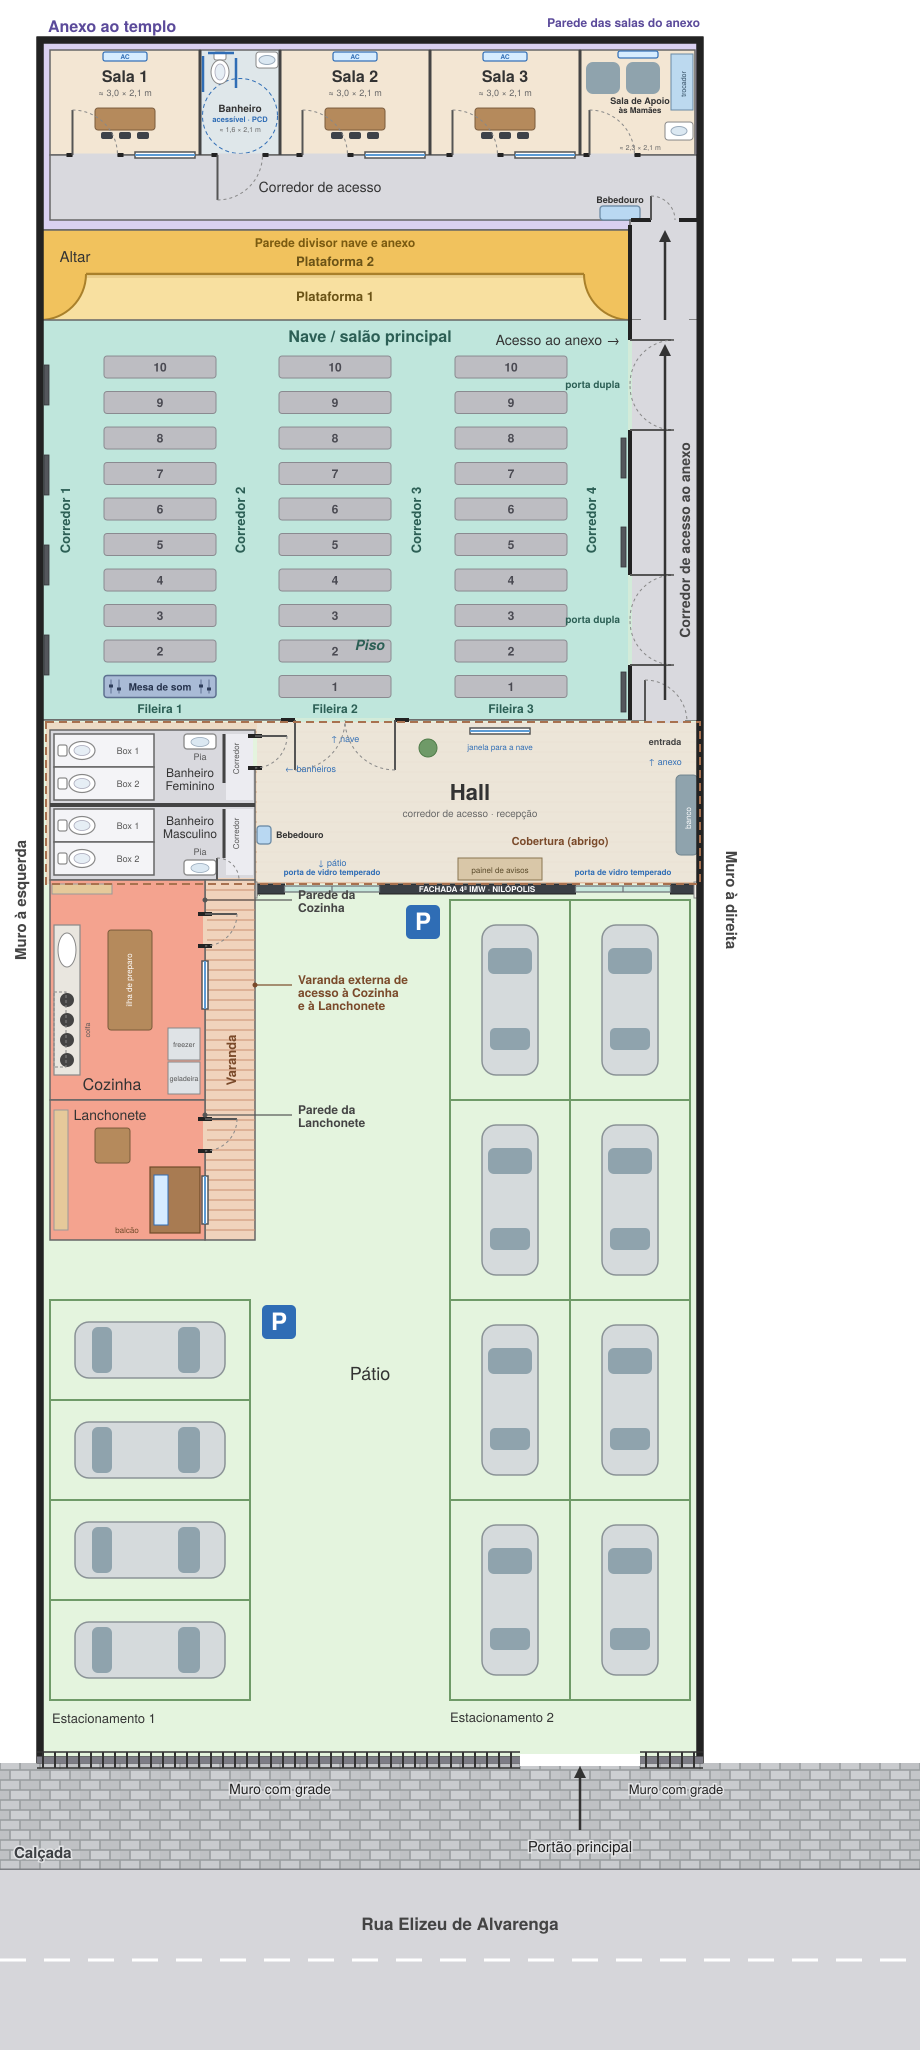
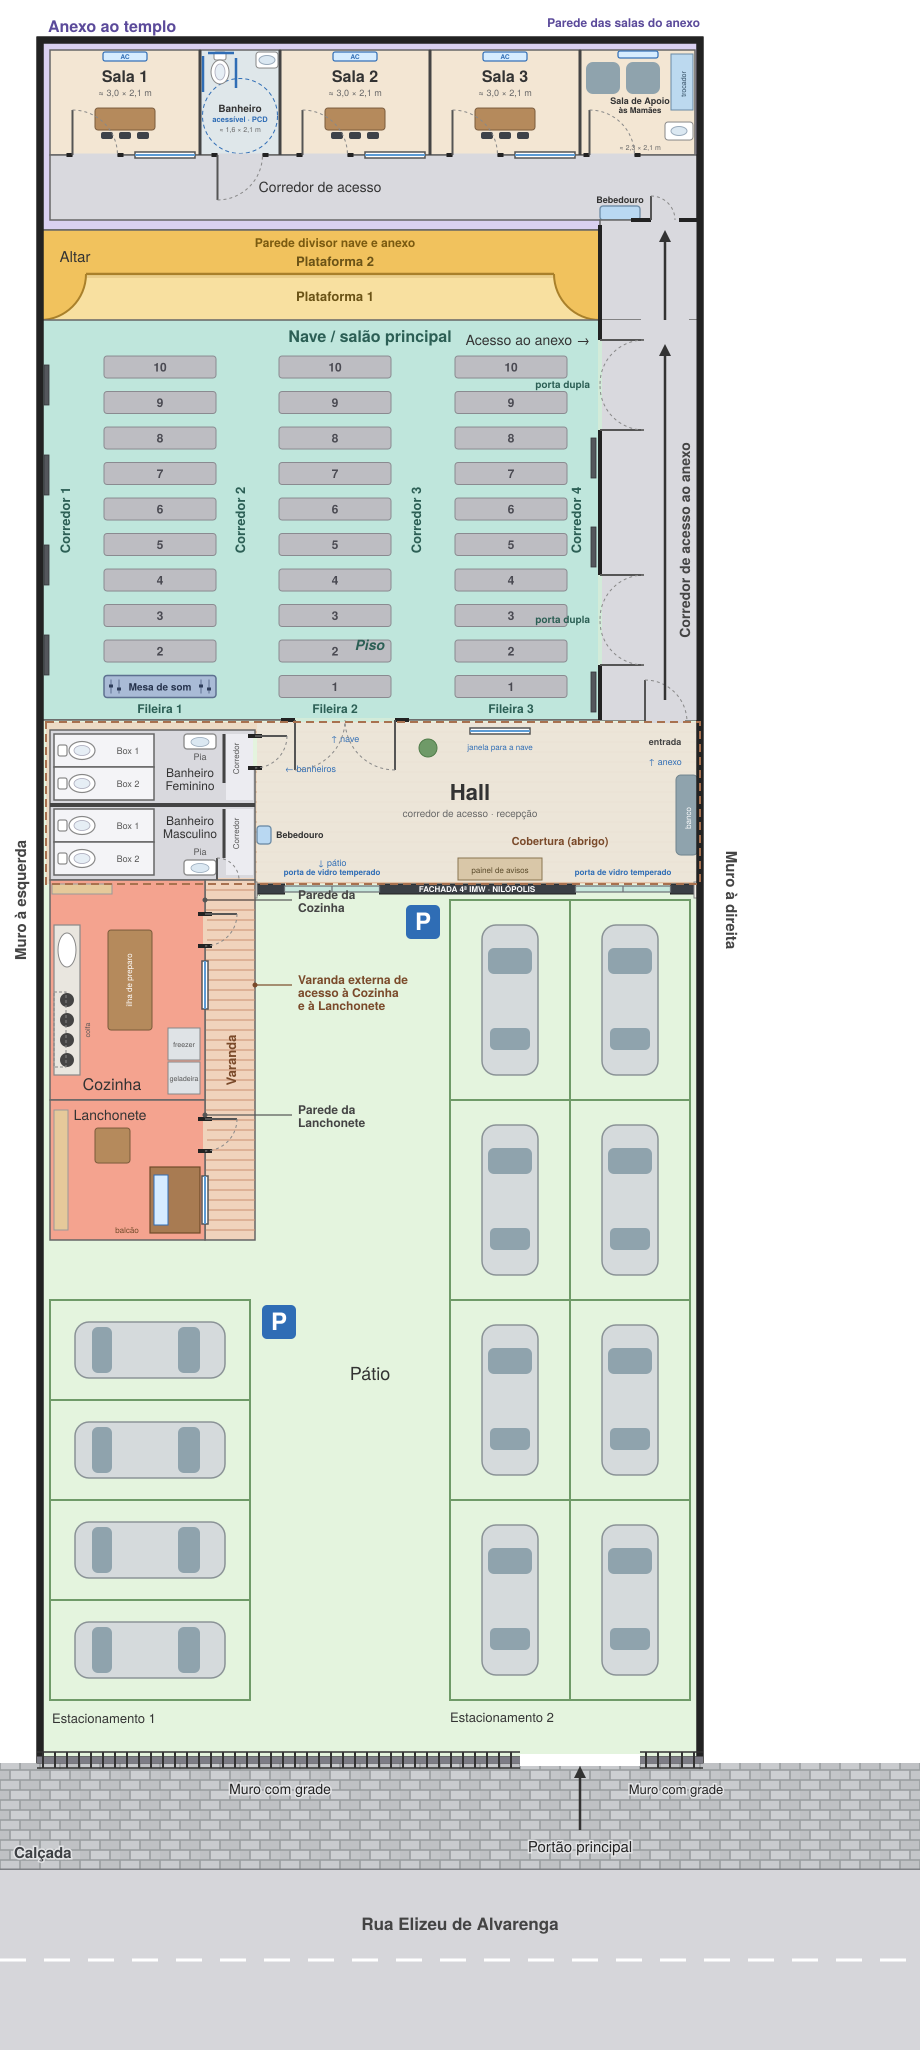
Maquete 3: corredor de acesso ao anexo mais largo (parede x630->x600, altar encurtado)
Claude-Session: https://claude.ai/code/session_015gh4tS64wXyJ2ghbw66cFX

Changed region(s): [[0.6087, 0.0928, 0.7, 0.371], [0.5783, 0.1546, 0.6087, 0.1855]]

diff --git a/projeto3/maquete.html b/projeto3/maquete.html
@@ -56,7 +56,7 @@
 <div id="app">
   <div id="stage"><canvas id="c"></canvas></div>
   <aside id="side">
-    <div class="top"><h1>Maquete 3 · Visão 3D</h1><p>Pátio com 2 ambientes menores (Cozinha e Lanchonete), Estacionamento 1 com 4 vagas e fachada com 2 portas de vidro temperado</p></div>
+    <div class="top"><h1>Maquete 3 · Visão 3D</h1><p>Pátio com 2 ambientes menores, Estacionamento 1 com 4 vagas, fachada com 2 portas de vidro e corredor de acesso ao anexo mais largo</p></div>
     <div class="tools">
   <button id="tRoof" class="on">Telhado</button>
   <button id="tLabels" class="on">Nomes</button>
@@ -300,7 +300,7 @@
   rect(200, 50, 280, 155, 0.06, 0.04, 0xdfe7ea, { cast: false });            // PROJETO 2: banheiro do anexo (entre Sala 1 e Sala 2)   // PROJETO 2: 3 salas
   rect(580, 50, 695, 155, 0.06, 0.04, 0xe8d9c0, { cast: false });            // PROJETO 2: Sala de Apoio às Mamães (piso amadeirado claro)
   rect(50, 155, 700, 220, 0.06, 0.04, C.corr, { cast: false });              // corredor do anexo
-  rect(630, 220, 700, 320, 0.0, 0.1, C.corr, { cast: false });               // corredor de acesso ao anexo
+  rect(600, 220, 700, 320, 0.0, 0.1, C.corr, { cast: false });               // corredor de acesso ao anexo
   // nave: piso de cor clara (porcelanato bege claro, placas de 0,6 m)
   (function(){
     var cv = document.createElement('canvas'); cv.width = cv.height = 128; var g = cv.getContext('2d');
@@ -312,12 +312,12 @@
   })();
 
   // ---------- Altar: Plataforma 1 (0,20 m) e Plataforma 2 (0,40 m de altura total, degrau de 20 cm) + 1/4 de pizza nos extremos ----------
-  rect(40, 274, 630, 320, 0, 0.2, C.plat1);                                  // Plataforma 1 (degrau frontal)
-  rect(40, 230, 630, 274, 0, 0.4, C.plat2);                                  // Plataforma 2 (resto do altar)
+  rect(40, 274, 600, 320, 0, 0.2, C.plat1);                                  // Plataforma 1 (degrau frontal)
+  rect(40, 230, 600, 274, 0, 0.4, C.plat2);                                  // Plataforma 2 (resto do altar)
   (function(){
     var r = 46 * S, geoL = new THREE.CylinderGeometry(r, r, 0.2, 28, 1, false, 0, Math.PI / 2);
     var geoR = new THREE.CylinderGeometry(r, r, 0.2, 28, 1, false, -Math.PI / 2, Math.PI / 2);
-    [[geoL, 40], [geoR, 630]].forEach(function(p){
+    [[geoL, 40], [geoR, 600]].forEach(function(p){
       var m = new THREE.Mesh(p[0], mat(C.plat2)); m.position.set(X(p[1]), 0.3, Z(274)); m.castShadow = true; m.receiveShadow = true; root.add(m);
     });
   })();
@@ -332,10 +332,10 @@
       var t = tx.clone(); t.needsUpdate = true; t.repeat.set((x2 - x1) * S / 0.5, (y2 - y1) * S / 0.5);
       box((x2 - x1) * S, 0.025, (y2 - y1) * S, 0, X((x1 + x2) / 2), top + 0.0125, Z((y1 + y2) / 2), null, { cast: false, material: new THREE.MeshStandardMaterial({ map: t, roughness: 1 }) });
     }
-    tap(48, 238, 622, 266, 0.4);                       // Plataforma 2
-    tap(94, 280, 576, 314, 0.2);                       // Plataforma 1 (entre os 1/4 de círculo)
+    tap(48, 238, 592, 266, 0.4);                       // Plataforma 2
+    tap(94, 280, 546, 314, 0.2);                       // Plataforma 1 (entre os 1/4 de círculo)
     var r = 46 * S - 0.06, cm = new THREE.MeshStandardMaterial({ map: tx, roughness: 1 });
-    [[new THREE.CylinderGeometry(r, r, 0.025, 28, 1, false, 0, Math.PI / 2), 40], [new THREE.CylinderGeometry(r, r, 0.025, 28, 1, false, -Math.PI / 2, Math.PI / 2), 630]].forEach(function(q){
+    [[new THREE.CylinderGeometry(r, r, 0.025, 28, 1, false, 0, Math.PI / 2), 40], [new THREE.CylinderGeometry(r, r, 0.025, 28, 1, false, -Math.PI / 2, Math.PI / 2), 600]].forEach(function(q){
       var m = new THREE.Mesh(q[0], cm); m.position.set(X(q[1]), 0.4125, Z(274)); m.receiveShadow = true; root.add(m);
     });
   })();
@@ -445,7 +445,7 @@
     var pc = 0x4a4d52, pf = 0x5d6066;
     function placa(x, dir, py){ box(0.06, 1.9, 0.8, pc, x, 1.75, Z(py), null, { cast: false }); box(0.02, 1.8, 0.7, pf, x + dir * 0.035, 1.75, Z(py), null, { cast: false }); }
     [385, 475, 565, 655].forEach(function(py){ placa(X(40) + 0.11 + 0.03, 1, py); });
-    [458, 547, 692].forEach(function(py){ placa(X(630) - 0.07 - 0.03, -1, py); });
+    [458, 547, 692].forEach(function(py){ placa(X(600) - 0.07 - 0.03, -1, py); });
     // ---- Ventiladores de parede (suspensos), entre as placas acústicas ----
     var fanDark = mat(0x34383d, { roughness: 0.5, metalness: 0.3 }), fanBlade = mat(0xd5d9de, { roughness: 0.5 });
     function ventilador(xf, dir, py, y){
@@ -465,7 +465,7 @@
       g.position.set(xf, y, Z(py)); g.rotation.y = dir > 0 ? 0 : Math.PI; root.add(g);
     }
     [430, 520, 610].forEach(function(py){ ventilador(X(40) + 0.11, 1, py, 2.5); });
-    [385, 502, 620].forEach(function(py){ ventilador(X(630) - 0.07, -1, py, 2.5); });   // lado das portas: acima das portas (385, 620) e entre as placas (502)
+    [385, 502, 620].forEach(function(py){ ventilador(X(600) - 0.07, -1, py, 2.5); });   // lado das portas: acima das portas (385, 620) e entre as placas (502)
     // ---- 2 ar-condicionados (split) na parede que divide a nave e o hall (face interna, voltados para a nave) ----
     var splitBranco = new THREE.MeshStandardMaterial({ color: 0xffffff, roughness: 0.45, emissive: 0xa8a8a8 });
     [X(170), X(510)].forEach(function(sx){
@@ -527,11 +527,11 @@
   // ---------- Parede do templo externo (nave x pátio): porta dupla e janela ----------
   hwall(720, 40, 700, BH, [win(500), { a: 300, b: 390, lh: 2.1 }, { a: 645, b: 685, lh: 2.1 }], C.wall, 0.22);   // PROJETO 2: janela da nave para a Sala de Apoio (x150); janela antiga de x520 removida (banheiros)
   doorLeaf(true, 720, 665, 0.86, 2.08, 0.22);                                // PROJETO 2: porta de entrada do corredor de acesso ao anexo
-  vwall(630, 225, 720, BH, [{ a: 340, b: 430, lh: 2.1 }, { a: 575, b: 665, lh: 2.1 }], 0xd2d4d7, 0.14);
+  vwall(600, 225, 720, BH, [{ a: 340, b: 430, lh: 2.1 }, { a: 575, b: 665, lh: 2.1 }], 0xd2d4d7, 0.14);
   // PROJETO 2: 2 portas duplas em vidro temperado (iguais à porta da nave) ligando a nave ao corredor: uma junto ao altar e outra na extremidade oposta
   [385, 620].forEach(function(c){
     var temp = new THREE.MeshStandardMaterial({ color: 0xb4dccf, transparent: true, opacity: 0.32, roughness: 0.05, metalness: 0.2, side: THREE.DoubleSide });
-    var met = 0x6b7075, px = X(630), cz = Z(c);
+    var met = 0x6b7075, px = X(600), cz = Z(c);
     [-0.45, 0.45].forEach(function(o){
       var lz = cz + o;
       box(0.012, 2.02, 0.84, 0, px, 1.07, lz, null, { material: temp, cast: false });
@@ -542,7 +542,7 @@
     });
     box(0.24, 0.07, 1.84, met, px, 2.135, cz);
   });                              // PROJETO 2: parede do corredor (lado da nave/altar)
-  rect(630, 320, 700, 720, 0, 0.1, C.corr, { cast: false });                 // PROJETO 2: piso do corredor
+  rect(600, 320, 700, 720, 0, 0.1, C.corr, { cast: false });                 // PROJETO 2: piso do corredor
   // revestimento SOMENTE da face interna da nave e do altar: paredes em cinza claro
   (function(){
     var gray = 0xd2d4d7, off = 0.116, th = 0.012;
@@ -601,12 +601,12 @@
       arc.scale.set(1, 0.38, 1); arc.position.set(xc, yc - 0.52, zl + 0.004); root.add(arc);          // arco azul na base
       // faixa de LED quente no pé da parede (atrás da plataforma) + brilho
       var led = new THREE.MeshBasicMaterial({ color: 0xffc16b });
-      box((630 - 48) * S, 0.035, 0.012, 0, X(339), 0.62, z0 + 0.012, null, { material: led, cast: false });
+      box((600 - 48) * S, 0.035, 0.012, 0, X(324), 0.62, z0 + 0.012, null, { material: led, cast: false });
       var gcv = document.createElement('canvas'); gcv.width = 4; gcv.height = 128; var gg = gcv.getContext('2d');
       var grd = gg.createLinearGradient(0, 128, 0, 0); grd.addColorStop(0, 'rgba(255,190,110,.55)'); grd.addColorStop(1, 'rgba(255,190,110,0)');
       gg.fillStyle = grd; gg.fillRect(0, 0, 4, 128);
-      var glow = new THREE.Mesh(new THREE.PlaneGeometry((630 - 48) * S, 0.55), new THREE.MeshBasicMaterial({ map: new THREE.CanvasTexture(gcv), transparent: true, depthWrite: false, blending: THREE.AdditiveBlending }));
-      glow.position.set(X(339), 0.9, z0 + 0.014); root.add(glow);
+      var glow = new THREE.Mesh(new THREE.PlaneGeometry((600 - 48) * S, 0.55), new THREE.MeshBasicMaterial({ map: new THREE.CanvasTexture(gcv), transparent: true, depthWrite: false, blending: THREE.AdditiveBlending }));
+      glow.position.set(X(324), 0.9, z0 + 0.014); root.add(glow);
       // dois splits (ar-condicionado) altos, um de cada lado do letreiro
       [X(170), X(510)].forEach(function(sx){
         box(1.15, 0.3, 0.22, 0xf4f4f2, sx, 2.5, z0 + 0.12, null, {});
@@ -614,7 +614,7 @@
         box(0.04, 0.03, 0.01, 0x44d17a, sx + 0.45, 2.55, z0 + 0.232, null, { cast: false });
       });
       // caixas de som penduradas perto do teto, nos cantos
-      [X(70), X(600)].forEach(function(sx){
+      [X(70), X(570)].forEach(function(sx){
         box(0.04, 0.35, 0.04, 0x333333, sx, 2.75, z0 + 0.4);
         rbox(0.42, 0.62, 0.38, 0x1c1e22, sx, 2.3, z0 + 0.4, { b: 0.03, r: 0.05 });
         box(0.26, 0.26, 0.012, 0x34383d, sx, 2.35, z0 + 0.6, null, { cast: false });

diff --git a/index.html b/index.html
@@ -114,13 +114,13 @@
   <div class="panel" id="projeto3">
     <section>
       <h2>Maquete 3 — Visão 3D</h2>
-      <p class="sub">Parte da Maquete 2 (a mais bem aceita na reunião) com as mudanças propostas. Mudanças até agora: o pátio tem somente 2 ambientes, Cozinha (maior) e Lanchonete (Cantina), ambos em tamanho reduzido; com isso o Estacionamento 1 passou de 2 para 4 vagas; a fachada ganhou uma 2ª porta de vidro temperado, no extremo oposto à existente. Dica: use as vistas <b>Cozinha e Lanchonete</b>, <b>Pátio</b> e, no menu 👁, <b>Pátio (ambientes)</b>.</p>
+      <p class="sub">Parte da Maquete 2 (a mais bem aceita na reunião) com as mudanças propostas. Mudanças até agora: o pátio tem somente 2 ambientes, Cozinha (maior) e Lanchonete (Cantina), ambos em tamanho reduzido; com isso o Estacionamento 1 passou de 2 para 4 vagas; a fachada ganhou uma 2ª porta de vidro temperado, no extremo oposto à existente; o corredor de acesso ao anexo ficou mais largo (2,0 m), com o altar encurtado. Dica: use as vistas <b>Cozinha e Lanchonete</b>, <b>Pátio</b> e, no menu 👁, <b>Pátio (ambientes)</b>.</p>
       <iframe class="frame" data-src="projeto3/maquete.html" title="Visão 3D da Maquete 3" allowfullscreen></iframe>
       <div class="btns"><a class="btn" href="projeto3/maquete.html" target="_blank" rel="noopener">Abrir em tela cheia</a></div>
     </section>
     <section>
       <h2>Maquete 3 — Planta baixa</h2>
-      <p class="sub">Planta esquemática, sem medidas, com a Cozinha e a Lanchonete no pátio, o Estacionamento 1 com 4 vagas e a fachada com 2 portas de vidro temperado.</p>
+      <p class="sub">Planta esquemática, sem medidas, com a Cozinha e a Lanchonete no pátio, o Estacionamento 1 com 4 vagas a fachada com 2 portas de vidro temperado e o corredor de acesso ao anexo mais largo.</p>
       <div class="planta"><a href="projeto3/planta.png" target="_blank" rel="noopener"><img src="projeto3/planta.png" alt="Planta baixa da Maquete 3" loading="lazy"></a></div>
       <div class="btns"><a class="btn alt" href="projeto3/planta.png" download>Baixar a planta (PNG)</a></div>
     </section>
